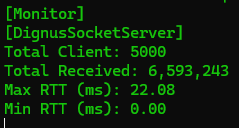
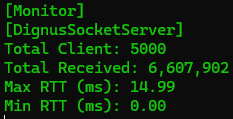
벤치마크 갱신

diff --git a/TestClient/Program.cs b/TestClient/Program.cs
@@ -99,7 +99,7 @@ namespace EchoClient
             {
                 client.Close();
             }
-            Monitor.Instance.Print("SuperSocket2.0");
+            Monitor.Instance.Print("DignusSocketServer");
         }
         static void Main(string[] args)
         {

diff --git a/README.md b/README.md
@@ -45,8 +45,8 @@ https://github.com/EomTaeWook/DignusSocketServer
 | 항목 | DignusSocketServer | DotNetty | SuperSocket 2.0 |
 |:---|:---|:---|:---|
 | Total Clients | 5000 | 5000 | 5000 |
-| Total Received | 6,593,243 | 5,836,706 | 3,223,877 |
-| Max RTT (ms) | 22.08 | 77.93 | 11.17 |
+| Total Received | 6,607,902 | 5,836,706 | 3,223,877 |
+| Max RTT (ms) | 14.99 | 77.93 | 11.17 |
 | Min RTT (ms) | 0.00 | 0.00 | 0.01 |
 
 ---
@@ -56,8 +56,8 @@ https://github.com/EomTaeWook/DignusSocketServer
 | 항목 | DignusSocketServer (초기) | DignusSocketServer (웜업 후) | DotNetty (초기) | DotNetty (웜업 후) | SuperSocket 2.0 (초기) | SuperSocket 2.0 (웜업 후) |
 |:---|:---|:---|:---|:---|:---|:---|
 | Total Clients | 5000 | 5000 | 5000 | 5000 | 5000 | 5000 |
-| Total Received | 6,358,117 | 6,593,243 | 5,426,823 | 5,836,706 | 3,191,922 | 3,223,877 |
-| Max RTT (ms) | 22.02 | 22.08 | 67.61 | 77.93 | 11.72 | 11.17 |
+| Total Received | 6,358,117 | 6,607,902 | 5,426,823 | 5,836,706 | 3,191,922 | 3,223,877 |
+| Max RTT (ms) | 22.02 | 14.99 | 67.61 | 77.93 | 11.72 | 11.17 |
 | Min RTT (ms) | 0.00 | 0.00 | 0.00 | 0.00 | 0.00 | 0.01 |
 
 ---
@@ -137,8 +137,8 @@ https://github.com/EomTaeWook/DignusSocketServer
 | Item | DignusSocketServer | DotNetty | SuperSocket 2.0 |
 |:---|:---|:---|:---|
 | Total Clients | 5000 | 5000 | 5000 |
-| Total Received | 6,593,243 | 5,836,706 | 3,223,877 |
-| Max RTT (ms) | 22.08 | 77.93 | 11.17 |
+| Total Received | 6,607,902 | 5,836,706 | 3,223,877 |
+| Max RTT (ms) | 14.99 | 77.93 | 11.17 |
 | Min RTT (ms) | 0.00 | 0.00 | 0.01 |
 
 ---
@@ -148,8 +148,8 @@ https://github.com/EomTaeWook/DignusSocketServer
 | Item | DignusSocketServer (Cold) | DignusSocketServer (Warm-up) | DotNetty (Cold) | DotNetty (Warm-up) | SuperSocket 2.0 (Cold) | SuperSocket 2.0 (Warm-up) |
 |:---|:---|:---|:---|:---|:---|:---|
 | Total Clients | 5000 | 5000 | 5000 | 5000 | 5000 | 5000 |
-| Total Received | 6,358,117 | 6,593,243 | 5,426,823 | 5,836,706 | 3,191,922 | 3,223,877 |
-| Max RTT (ms) | 22.02 | 22.08 | 67.61 | 77.93 | 11.72 | 11.17 |
+| Total Received | 6,358,117 | 6,607,902 | 5,426,823 | 5,836,706 | 3,191,922 | 3,223,877 |
+| Max RTT (ms) | 22.02 | 14.99 | 67.61 | 77.93 | 11.72 | 11.17 |
 | Min RTT (ms) | 0.00 | 0.00 | 0.00 | 0.00 | 0.00 | 0.01 |
 
 # 🖼 Test Result Captures (Cold Start)
